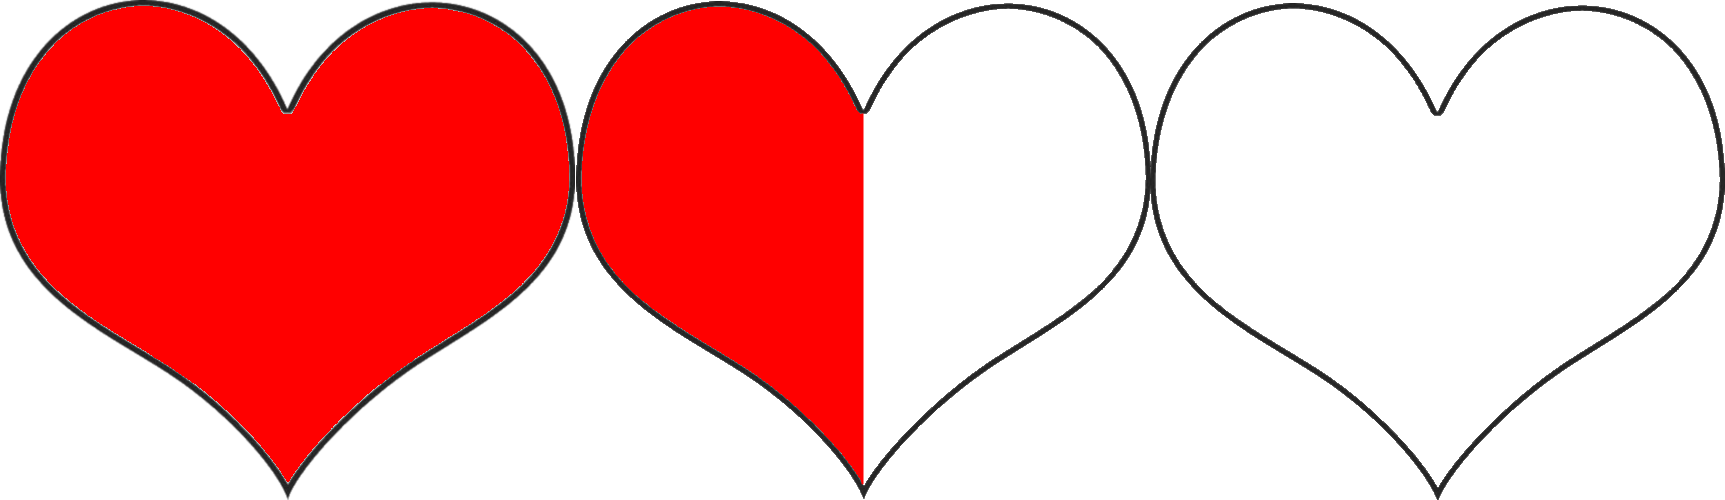
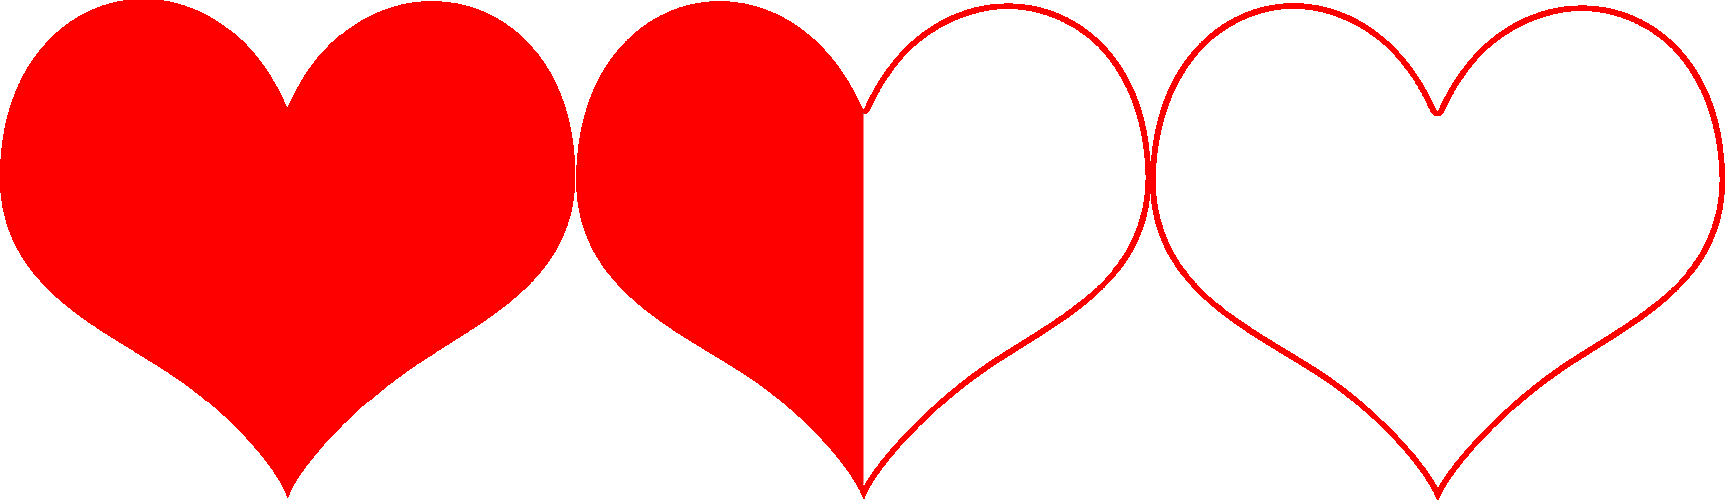
Health indicator i boks! :D

diff --git a/ChilledTreat/ChilledTreat/ChilledTreat/GameClasses/Player.cs b/ChilledTreat/ChilledTreat/ChilledTreat/GameClasses/Player.cs
@@ -9,21 +9,20 @@ namespace ChilledTreat.GameClasses
 {
 	class Player
 	{
-		int _health, _ammo;
-		double _currentTime, _startShootTime, _startReloadTime;
-		private bool _playReloadSound;
-		private readonly Texture2D _reticuleTexture, _bulletTexture, _usedBulletTexture, _gunTexture;
-		private readonly SpriteBatch _spriteBatch;
 		private readonly InputHandler _input = InputHandler.Instance;
+		private readonly SpriteBatch _spriteBatch;
+
+		private int _health, _ammo, _heartsDrawn, _widthOfHeart;
+		private double _currentTime, _startShootTime, _startReloadTime;
+		private bool _playReloadSound;
+		private readonly Texture2D _reticuleTexture, _bulletTexture, _usedBulletTexture, _gunTexture, _healthTexture;
 		private readonly Vector2 _halfReticuleTexture;
+		private Vector2 _vectorGunToMouse, _reticulePosition;
 		private readonly Texture2D[] _bullets;
 		private readonly Vector2[] _bulletPositions;
 		private readonly SoundEffect _gunShotSound, _gunReloadSound;
-		private readonly SpriteFont _healthFont;
-		private readonly Color _healthFontColor;
-		private Vector2 _vectorGunToMouse, _reticulePosition;
 		private float _gunRotation;
-		private Rectangle _gunPosition;
+		private readonly Rectangle _gunPosition, _fullHealthSource, _halfHealthSource, _noHealthSource;
 
 		enum States
 		{
@@ -48,15 +47,18 @@ namespace ChilledTreat.GameClasses
 			_bulletTexture = content.Load<Texture2D>("Images/usableBullet");
 			_usedBulletTexture = content.Load<Texture2D>("Images/usableUsedBullet");
 			_gunTexture = content.Load<Texture2D>("Images/gunTest");
+			_healthTexture = content.Load<Texture2D>("Images/normalUsableHeart");
 			_gunShotSound = content.Load<SoundEffect>("Sounds/GunFire");
 			_gunReloadSound = content.Load<SoundEffect>("Sounds/ReloadSound");
-			_healthFont = content.Load<SpriteFont>("fonts/healthFont");
-			_healthFontColor = Color.Black;
 			_spriteBatch = spriteBatch;
 			_halfReticuleTexture = new Vector2(_reticuleTexture.Width / 2f, _reticuleTexture.Height / 2f);
 			_bullets = new Texture2D[10];
 			_bulletPositions = new Vector2[10];
 			_gunPosition = new Rectangle(Game1.Instance.GameScreenWidth / 2, Game1.Instance.GameScreenHeight + 40, _gunTexture.Width, _gunTexture.Height);
+			_widthOfHeart = _healthTexture.Width/3;
+			_fullHealthSource = new Rectangle(0, 0, _widthOfHeart, _healthTexture.Height);
+			_halfHealthSource = new Rectangle(_widthOfHeart, 0, _widthOfHeart, _healthTexture.Height);
+			_noHealthSource = new Rectangle(_widthOfHeart * 2, 0, _widthOfHeart, _healthTexture.Height);
 			_playerState = States.Alive;
 
 			for (int i = 0; i < _bulletPositions.Length; i++)
@@ -72,6 +74,8 @@ namespace ChilledTreat.GameClasses
 
 		public void Update()
 		{
+			if(_playerState == States.Dead) Game1.Instance.Exit();
+
 			_currentTime = _frameInfo.GameTime.TotalGameTime.TotalMilliseconds;
 			_reticulePosition = new Vector2(_input.MouseState.X, _input.MouseState.Y);
 			if (_currentTime - _startShootTime > 200 && _playerState != States.Reloading) _playerState = States.Alive;
@@ -120,7 +124,7 @@ namespace ChilledTreat.GameClasses
 				_spriteBatch.Draw(_bullets[i], _bulletPositions[i], Color.White);
 			}
 
-			_spriteBatch.DrawString(_healthFont, _health.ToString(), new Vector2(Game1.Instance.GameScreenWidth-75, Game1.Instance.GameScreenHeight - 70),_healthFontColor );
+			DrawHealth();
 		}
 
 		public void Shoot()
@@ -136,7 +140,7 @@ namespace ChilledTreat.GameClasses
 				_playReloadSound = true;
 			} else _playerState = States.Waiting;
 
-			if (_playerState != States.Reloading && _playerState != States.Waiting) _playerState = States.Alive;
+			if (_playerState != States.Reloading && _playerState != States.Waiting && _playerState != States.Dead) _playerState = States.Alive;
 
 		}
 
@@ -169,6 +173,138 @@ namespace ChilledTreat.GameClasses
 			if (_health <= 0)
 			{
 				_playerState = States.Dead;
+			}
+		}
+
+		public void DrawHealth()
+		{
+			_heartsDrawn = 0;
+			if (_health == 100)
+			{
+				for (int i = 0; i < 5; i++)
+				{
+					_spriteBatch.Draw(_healthTexture, new Vector2(((Game1.Instance.GameScreenWidth - 300) + 60 * _heartsDrawn), Game1.Instance.GameScreenHeight - 50), _fullHealthSource, Color.White);
+					_heartsDrawn++;
+				}
+			}
+			else if (_health >= 90)
+			{
+				for (int i = 0; i < 4; i++)
+				{
+					_spriteBatch.Draw(_healthTexture, new Vector2(((Game1.Instance.GameScreenWidth - 300) + 60 * _heartsDrawn), Game1.Instance.GameScreenHeight - 50), _fullHealthSource, Color.White);
+					_heartsDrawn++;
+				}
+
+				_spriteBatch.Draw(_healthTexture, new Vector2(((Game1.Instance.GameScreenWidth - 300) + 60 * _heartsDrawn), Game1.Instance.GameScreenHeight - 50), _halfHealthSource, Color.White);
+			}
+			else if (_health >= 80)
+			{
+				for (int i = 0; i < 4; i++)
+				{
+					_spriteBatch.Draw(_healthTexture, new Vector2(((Game1.Instance.GameScreenWidth - 300) + 60 * _heartsDrawn), Game1.Instance.GameScreenHeight - 50), _fullHealthSource, Color.White);
+					_heartsDrawn++;
+				}
+
+				_spriteBatch.Draw(_healthTexture, new Vector2(((Game1.Instance.GameScreenWidth - 300) + 60 * _heartsDrawn), Game1.Instance.GameScreenHeight - 50), _noHealthSource, Color.White);
+			}
+			else if (_health >= 70)
+			{
+				for (int i = 0; i < 3; i++)
+				{
+					_spriteBatch.Draw(_healthTexture, new Vector2(((Game1.Instance.GameScreenWidth - 300) + 60 * _heartsDrawn), Game1.Instance.GameScreenHeight - 50), _fullHealthSource, Color.White);
+					_heartsDrawn++;
+				}
+
+				_spriteBatch.Draw(_healthTexture, new Vector2(((Game1.Instance.GameScreenWidth - 300) + 60 * _heartsDrawn), Game1.Instance.GameScreenHeight - 50), _halfHealthSource, Color.White);
+				_heartsDrawn++;
+				_spriteBatch.Draw(_healthTexture, new Vector2(((Game1.Instance.GameScreenWidth - 300) + 60 * _heartsDrawn), Game1.Instance.GameScreenHeight - 50), _noHealthSource, Color.White);
+			}
+			else if (_health >= 60)
+			{
+				for (int i = 0; i < 3; i++)
+				{
+					_spriteBatch.Draw(_healthTexture, new Vector2(((Game1.Instance.GameScreenWidth - 300) + 60 * _heartsDrawn), Game1.Instance.GameScreenHeight - 50), _fullHealthSource, Color.White);
+					_heartsDrawn++;
+				}
+				for (int i = 0; i < 2; i++)
+				{
+					_spriteBatch.Draw(_healthTexture, new Vector2(((Game1.Instance.GameScreenWidth - 300) + 60 * _heartsDrawn), Game1.Instance.GameScreenHeight - 50), _noHealthSource, Color.White);
+					_heartsDrawn++;
+				}
+			}
+			else if (_health >= 50)
+			{
+				for (int i = 0; i < 2; i++)
+				{
+					_spriteBatch.Draw(_healthTexture, new Vector2(((Game1.Instance.GameScreenWidth - 300) + 60 * _heartsDrawn), Game1.Instance.GameScreenHeight - 50), _fullHealthSource, Color.White);
+					_heartsDrawn++;
+				}
+
+				_spriteBatch.Draw(_healthTexture, new Vector2(((Game1.Instance.GameScreenWidth - 300) + 60 * _heartsDrawn), Game1.Instance.GameScreenHeight - 50), _halfHealthSource, Color.White);
+				_heartsDrawn++;
+
+				for (int i = 0; i < 2; i++)
+				{
+					_spriteBatch.Draw(_healthTexture, new Vector2(((Game1.Instance.GameScreenWidth - 300) + 60 * _heartsDrawn), Game1.Instance.GameScreenHeight - 50), _noHealthSource, Color.White);
+					_heartsDrawn++;
+				}
+			}
+			else if (_health >= 40)
+			{
+				for (int i = 0; i < 2; i++)
+				{
+					_spriteBatch.Draw(_healthTexture, new Vector2(((Game1.Instance.GameScreenWidth - 300) + 60 * _heartsDrawn), Game1.Instance.GameScreenHeight - 50), _fullHealthSource, Color.White);
+					_heartsDrawn++;
+				}
+
+				for (int i = 0; i < 3; i++)
+				{
+					_spriteBatch.Draw(_healthTexture, new Vector2(((Game1.Instance.GameScreenWidth - 300) + 60 * _heartsDrawn), Game1.Instance.GameScreenHeight - 50), _noHealthSource, Color.White);
+					_heartsDrawn++;
+				}
+			}
+			else if (_health >= 30)
+			{
+				_spriteBatch.Draw(_healthTexture, new Vector2(((Game1.Instance.GameScreenWidth - 300) + 60 * _heartsDrawn), Game1.Instance.GameScreenHeight - 50), _fullHealthSource, Color.White);
+				_heartsDrawn++;
+				_spriteBatch.Draw(_healthTexture, new Vector2(((Game1.Instance.GameScreenWidth - 300) + 60 * _heartsDrawn), Game1.Instance.GameScreenHeight - 50), _halfHealthSource, Color.White);
+				_heartsDrawn++;
+
+				for (int i = 0; i < 3; i++)
+				{
+					_spriteBatch.Draw(_healthTexture, new Vector2(((Game1.Instance.GameScreenWidth - 300) + 60 * _heartsDrawn), Game1.Instance.GameScreenHeight - 50), _noHealthSource, Color.White);
+					_heartsDrawn++;
+				}
+			}
+			else if (_health >= 20)
+			{
+				_spriteBatch.Draw(_healthTexture, new Vector2(((Game1.Instance.GameScreenWidth - 300) + 60 * _heartsDrawn), Game1.Instance.GameScreenHeight - 50), _fullHealthSource, Color.White);
+				_heartsDrawn++;
+
+				for (int i = 0; i < 4; i++)
+				{
+					_spriteBatch.Draw(_healthTexture, new Vector2(((Game1.Instance.GameScreenWidth - 300) + 60 * _heartsDrawn), Game1.Instance.GameScreenHeight - 50), _noHealthSource, Color.White);
+					_heartsDrawn++;
+				}
+			}
+			else if (_health >= 10)
+			{
+				_spriteBatch.Draw(_healthTexture, new Vector2(((Game1.Instance.GameScreenWidth - 300) + 60 * _heartsDrawn), Game1.Instance.GameScreenHeight - 50), _halfHealthSource, Color.White);
+				_heartsDrawn++;
+
+				for (int i = 0; i < 4; i++)
+				{
+					_spriteBatch.Draw(_healthTexture, new Vector2(((Game1.Instance.GameScreenWidth - 300) + 60 * _heartsDrawn), Game1.Instance.GameScreenHeight - 50), _noHealthSource, Color.White);
+					_heartsDrawn++;
+				}
+			}
+			else if (_health > 0)
+			{
+				for (int i = 0; i < 5; i++)
+				{
+					_spriteBatch.Draw(_healthTexture, new Vector2(((Game1.Instance.GameScreenWidth - 300) + 60 * _heartsDrawn), Game1.Instance.GameScreenHeight - 50), _noHealthSource, Color.White);
+					_heartsDrawn++;
+				}
 			}
 		}
 	}
